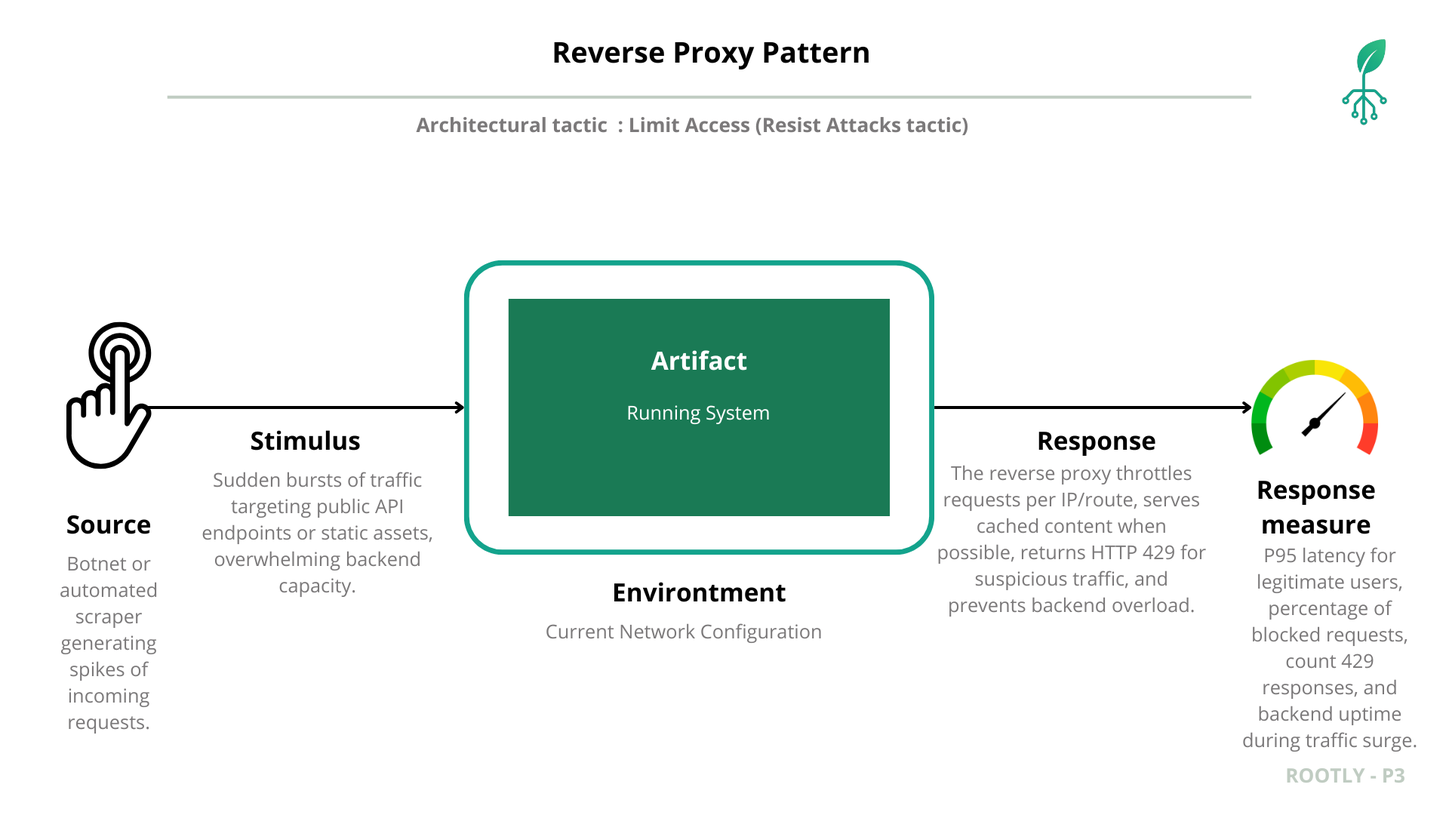
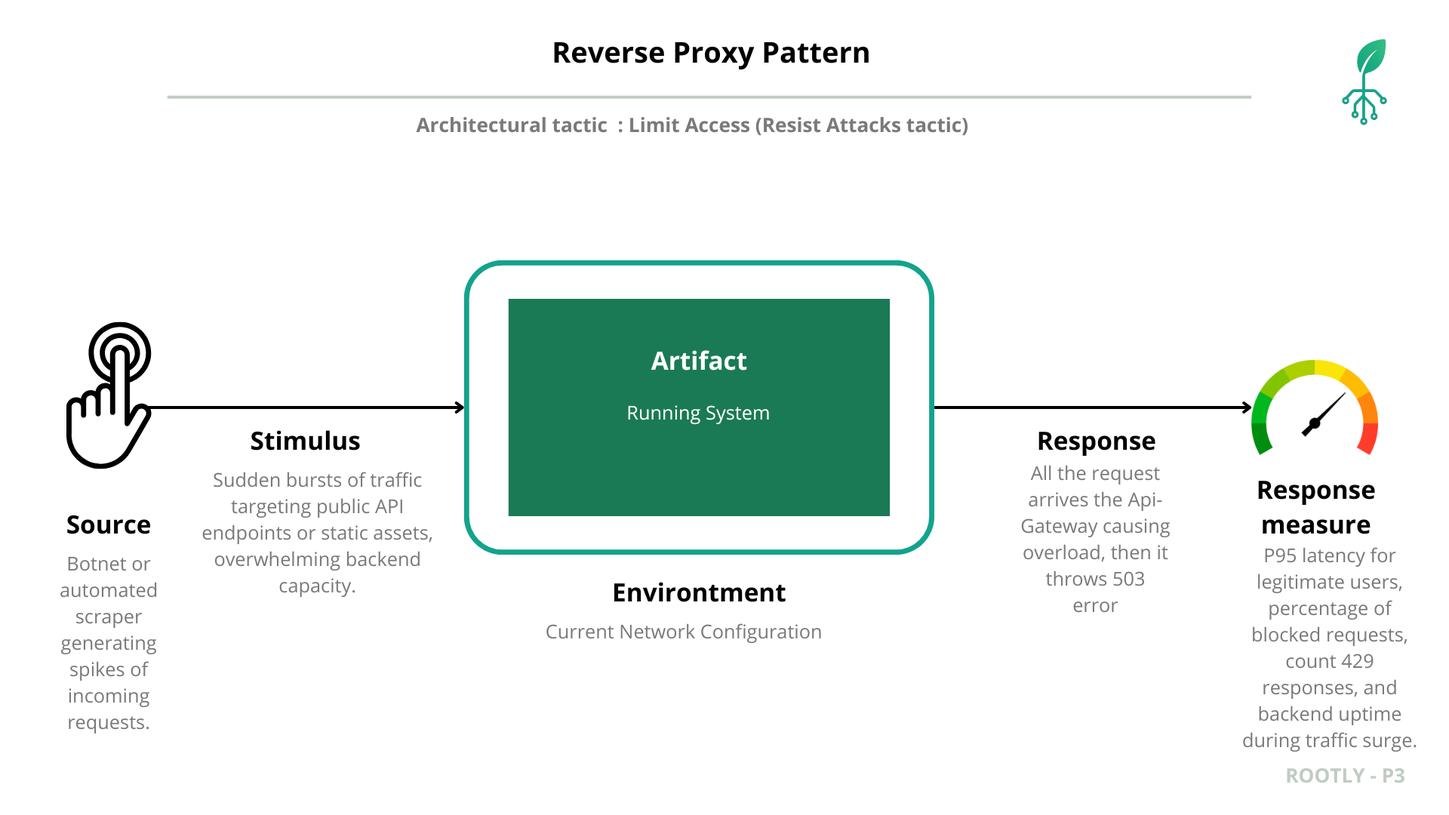
reverse proxy inside WAF update

Changed region(s): [[0.6562, 0.55, 0.8125, 0.7639]]

diff --git a/Prototype_3/README.md b/Prototype_3/README.md
@@ -78,13 +78,13 @@ Finally, users can access all this information through an intuitive interface, a
   - Protocols: **HTTP/REST**
   - Relations: Consumes `lb-data-ingestion` via HTTP/REST
 
-- **WAF**
+- **WAF (with embedded Reverse Proxy)**
   - Type: Security Firewall / Edge Service
-  - Responsibility: Protects web applications from common attacks and filters malicious traffic before it reaches the reverse proxy.
+  - Responsibility: Protects web applications from common attacks while running the reverse proxy functionality internally so that every frontend request is inspected, throttled, and routed within the same component.
   - Protocols: **HTTPS**
   - Relations:
     - Receives requests from `web-browser` and `fe-mobile`.
-    - Routes traffic to `api-gateway` and `fe-web` .
+    - Routes traffic to `api-gateway` and `fe-web`.
 
 - **lb-data-ingestion**
   - Type: Load Balancer
@@ -98,7 +98,7 @@ Finally, users can access all this information through an intuitive interface, a
   - Type: Mobile client application
   - Responsibility: Provides a mobile-optimized interface consuming backend APIs directly via REST.
   - Protocols: **HTTP/REST**
-  - Relations: Consumes `reverse-proxy` via HTTP/REST
+  - Relations: Consumes the WAF (reverse proxy) via HTTP/REST
 
 - **fe-web**
   - Type: Web client application
@@ -113,7 +113,7 @@ Finally, users can access all this information through an intuitive interface, a
   - Responsibility: Central entry point for all clients. Routes, aggregates, and authenticates API requests to backend microservices.
   - Protocols: **HTTP/GraphQL/REST**
   - Relations:
-    - Receives requests from `reverse-proxy`.
+    - Receives requests from the WAF reverse proxy.
     - Consumes services from backend modules (`lb-analytics`, `ms-user-plant-management`, `ms-authentication-and-roles`).
 
 - **lb-analytics**
@@ -362,7 +362,7 @@ Based on the deployment view, the system's elements are allocated as follows:
     *   **LAN (Shared Network):** A Local Area Network infrastructure that interconnects all three nodes, providing the foundational communication layer for the entire system. The LAN enables seamless connectivity between physical devices (Node 3), mobile clients (Node 2), and the server cluster (Node 1).
     
     *   **Node 1 (Server Cluster):** A physical or virtual server hosting the Docker environment with two network segments:
-        *   **Public Subnet (DMZ):** Contains WAF, reverse proxy, `fe-ssr-web`, and `api-gateway`, exposing controlled access to external clients.
+        *   **Public Subnet (DMZ):** Contains the WAF (which embeds the reverse proxy), `fe-ssr-web`, and `api-gateway`, exposing controlled access to external clients.
         *   **Private Subnet:** Contains all backend microservices, databases, message queue, and load balancers, isolated from direct external access. Services communicate via the internal Docker bridge network (`rootly-private-network`).
     
     *   **Node 2 (Mobile Client):** A physical device (smartphone/tablet running iOS/Android) executing the `fe-mobile` application (React Native), which communicates with Node 1 over the LAN via HTTPS.
@@ -806,13 +806,15 @@ Implementing the Secure Channel Pattern eliminates the exposure of sensitive dat
 ---
 ## Reverse Proxy
 
+Rootly implements the reverse proxy pattern inside the Web Application Firewall (WAF). The WAF is therefore the only public-facing component for frontend traffic, simultaneously enforcing inspection rules and the proxy features described below.
+
 ![Reverse proxy flood scenario](images/reverse_proxy_sceneryP3.png)
 
 ### 1. Artifact
 
 **Ingress Path for HTTP/REST Traffic:** Public-facing connector that carries requests from `fe-mobile`, `fe-web` (through the WAF), and automation clients toward the `api-gateway` and all downstream microservices.
 
-- **Reverse Proxy / Edge Layer:** Newly introduced `reverse-proxy` component.
+- **WAF Reverse Proxy / Edge Layer:** The WAF component hosts the reverse proxy logic that all external HTTP requests traverse.
 - **API Gateway (`api-gateway`):** Central orchestrator whose overload cascades to the rest of the platform.
 - **Backend Microservices:** Analytics, authentication, plant management, and processing services that depend on a healthy gateway.
 
@@ -842,20 +844,20 @@ Scenario executed under normal operations while comparing two configurations.
 - Every flood packet reaches the gateway and propagates to the microservices it fronts.
 
 #### Post–Reverse Proxy (Validation)
-- `reverse-proxy` is the only public HTTP/REST connector; all clients traverse `web-browser → WAF → reverse-proxy → api-gateway`.
+- The WAF reverse proxy is the only public HTTP/REST connector; all clients traverse `web-browser/fe-mobile → WAF (reverse proxy) → api-gateway`.
 - `api-gateway` and downstream services are isolated on a private network without host port mappings.
-- Proxy enforces per-IP/per-route throttling, optional caching, and centralized logging to monitor ingress.
+- The WAF enforces per-IP/per-route throttling, optional caching, and centralized logging to monitor ingress.
 
 ### 5. Response
 
-The system must preserve availability by shaping traffic at the edge:
+When the WAF reverse proxy is **not** yet implemented, the system responds to floods in a brittle way:
 
-1. **Edge Throttling:** Reverse proxy counts requests per IP and returns HTTP `429` when limits are exceeded.
-2. **Burst Absorption:** Small bursts are buffered so legitimate short spikes succeed.
-3. **Selective Forwarding:** Only traffic within the configured rate passes through the HTTP/REST connector to `api-gateway`.
-4. **Visibility:** Blocked IPs and routes are logged centrally for quick remediation.
+1. **Edge Throttling:** Does **not** exist; every request hits `api-gateway`, so there is no HTTP `429` shedding at the perimeter.
+2. **Burst Absorption:** Short spikes are still directed straight to the gateway, which has limited ability to buffer traffic and therefore starves worker pools.
+3. **Selective Forwarding:** All traffic—legitimate and abusive—travels through the exposed HTTP/REST connector, so the gateway forwards overload to backends.
+4. **Visibility:** Observability is fragmented across services, making it harder to identify the dominant attacker IPs or routes in real time.
 
-Without the proxy, `api-gateway` attempts to process the entire flood, leading to CPU saturation, increased latency, and cascading 5xx errors.
+This lack of an edge reverse proxy means `api-gateway` must process the entire flood, leading to CPU saturation, increased latency, and cascading 5xx errors. The remainder of this section explains how embedding the reverse proxy inside the WAF fixes those gaps.
 
 ### 6. Response Measure
 
@@ -882,13 +884,13 @@ Validation focuses on runtime metrics collected during the flood test:
 | **Attack** | Massive concurrent REST calls hammer `/api/*` endpoints to exhaust resources. |
 | **Risk** | Farmers and operators lose analytics/telemetry access due to timeouts and 5xx responses. |
 | **Vulnerability** | Unbounded ingress path allows every attack packet to reach internal services. |
-| **Countermeasure** | Reverse proxy between `fe-mobile`/WAF and `api-gateway`, enforcing throttling, caching hot responses, and centralizing inspection. |
+| **Countermeasure** | Implement the reverse proxy inside the WAF between clients and `api-gateway`, enforcing throttling, caching hot responses, and centralizing inspection. |
 
 ### Countermeasure: Reverse Proxy Pattern
 
 The **Reverse Proxy Pattern** establishes a guarded ingress path:
 
-- `reverse-proxy` is the only service exposed publicly; `api-gateway` resides on a private network and is reachable solely through the proxy.
+- The WAF reverse proxy is the only service exposed publicly; `api-gateway` resides on a private network and is reachable solely through the WAF.
 - The HTTP/REST connector between `fe-mobile` and the backend now includes rate limiting, burst controls, and optional caching to keep forwarded RPS within safe envelopes.
 - Observability improves because every external HTTP request is logged in one place, accelerating detection and response.
 
@@ -897,7 +899,7 @@ The **Reverse Proxy Pattern** establishes a guarded ingress path:
 | State | Response | Response Metrics |
 | --- | --- | --- |
 | **Before reverse proxy** | `api-gateway` processes every spike, saturates CPU, and propagates latency/timeouts to clients. | P95 latency >3 s, backend RPS ≈ attack RPS (~1000), 20–40% 5xx, no `429` shedding. |
-| **After reverse proxy** | Proxy sheds overflow (HTTP 429) and forwards only bounded traffic through the HTTP/REST connector, keeping services responsive. | P95 latency <300 ms, forwarded RPS capped (~200–300), <2% 5xx, high `429` count evidencing throttling. |
+| **After reverse proxy** | The WAF reverse proxy sheds overflow (HTTP 429) and forwards only bounded traffic through the HTTP/REST connector, keeping services responsive. | P95 latency <300 ms, forwarded RPS capped (~200–300), <2% 5xx, high `429` count evidencing throttling. |
 
 ### Comparative Security Assessment
 
@@ -910,13 +912,13 @@ The **Reverse Proxy Pattern** establishes a guarded ingress path:
 
 ### Summary
 
-Adopting the reverse proxy converted an unbounded ingress path into a controlled choke point that enforces the **Limit Access** tactic. Legitimate `fe-mobile` sessions maintain service quality even when hostile traffic is present, because overload is absorbed and rejected at the edge.
+Adopting the WAF-hosted reverse proxy converted an unbounded ingress path into a controlled choke point that enforces the **Limit Access** tactic. Legitimate `fe-mobile` sessions maintain service quality even when hostile traffic is present, because overload is absorbed and rejected at the edge.
 
 ## Verification – Comparative Analysis
 
 | Aspect | **Before Reverse Proxy** | **After Reverse Proxy** |
 | --- | --- | --- |
-| **Response** | API gateway and downstream services absorb the entire flood, leading to saturation, restarts, and user-visible downtime. | Reverse proxy throttles the attack, forwards only safe RPS to the gateway, and keeps legitimate sessions responsive. |
+| **Response** | API gateway and downstream services absorb the entire flood, leading to saturation, restarts, and user-visible downtime. | The WAF reverse proxy throttles the attack, forwards only safe RPS to the gateway, and keeps legitimate sessions responsive. |
 | **Response Measure** | High latency, backend RPS mirrors attack volume, zero 429 shedding, elevated 5xx. | Latency within SLA, bounded backend RPS, significant 429 shedding, minimal 5xx. |
 
 **💡 Note on Architectural Pattern:** See the [Reverse Proxy Pattern Documentation](https://github.com/swarch-2f-rootly/2f/blob/main/Prototype_3/reverse_proxy/README.md) for Nginx configuration, validation commands, and extended results.
@@ -927,23 +929,23 @@ Adopting the reverse proxy converted an unbounded ingress path into a controlled
 
 ### Scenario Snapshot
 In this scenario, the system faces a sustained **Layer-7 DoS attack** initiated by a single malicious client repeatedly sending legitimate-looking HTTP requests to its public API endpoints.  
-Initially, an NGINX reverse proxy acts as the only public entry point, forwarding all traffic to the API Gateway without deep inspection or rate limiting.  
+Initially, a plain NGINX reverse proxy acts as the only public entry point, forwarding all traffic to the API Gateway without deep inspection or rate limiting.  
 This design exposes the system to resource exhaustion, high latency, and loss of availability.  
-To mitigate this weakness, the **Web Application Firewall (WAF) pattern** is applied, introducing intelligent traffic inspection and rate control mechanisms that detect and block malicious requests while maintaining service performance for legitimate users.
+To mitigate this weakness, the **Web Application Firewall (WAF) pattern** is applied so that the reverse proxy functionality is implemented inside the WAF, introducing intelligent traffic inspection and rate control mechanisms that detect and block malicious requests while maintaining service performance for legitimate users.
 
 - **Weakness:** The system exposes a single public entry point through an NGINX reverse proxy that only forwards traffic to the API Gateway without deep inspection or centralized rate limiting.
 - **Threat:** A malicious external client or automated script capable of generating a sustained stream of HTTP(S) requests that simulated legitimate traffic.
 - **Attack:**  A **Layer-7 DoS** attack that repeatedly targets exposed endpoints (e.g., `/graphql`, `/auth/login`), using continuous or “low-and-slow” requests to exhaust gateway worker pools and degrade performance.
 - **Risk:** The API Gateway becomes overloaded, producing 502/503 responses and blocking legitimate users. System availability and user experience deteriorate severely.
 - **Vulnerability:** Absence of application-layer protection and global throttling. The reverse proxy lacks mechanisms to identify and block abusive request patterns.
-- **Countermeasure:** Introduce a **Web Application Firewall (WAF)** in front of the reverse proxy/API Gateway to inspect, filter, and throttle malicious traffic before it reaches backend services.
+- **Countermeasure:** Integrate a **Web Application Firewall (WAF)** with the reverse proxy/API Gateway edge so that every request is inspected, filtered, and throttled before it reaches backend services.
 
 ### Explanation of the Countermeasure
 
 The **Web Application Firewall (WAF) pattern** introduces a dedicated layer for **application-layer inspection and traffic control**.  
 It applies the *Detect Service Denial* and *Limit Resource Demand* architectural tactics to strengthen the system’s availability and resilience.
 
-By placing the WAF (`rootly-waf`) in front of the reverse proxy and API Gateway, the system gains the ability to:
+By upgrading the existing reverse proxy into the WAF (`rootly-waf`) that fronts the API Gateway, the system gains the ability to:
 
 - **Analyze and classify** HTTP requests using the OWASP Core Rule Set (CRS).  
 - **Detect anomalies and block malicious traffic** before it reaches backend services.  
@@ -951,7 +953,7 @@ By placing the WAF (`rootly-waf`) in front of the reverse proxy and API Gateway,
 - **Maintain service availability** with minimal latency degradation during high-volume attacks.  
 - **Centralize telemetry** (blocked IPs, triggered rules, anomaly scores) for auditing and adaptive security tuning.
 
-This countermeasure mitigates the initial weakness by adding an **intelligent filtering and control mechanism** at the network edge, transforming a passive reverse proxy into an active protection layer capable of handling complex, distributed attacks.
+This countermeasure mitigates the initial weakness by adding an **intelligent filtering and control mechanism** at the network edge, transforming the previously passive reverse proxy into an active protection layer capable of handling complex, distributed attacks.
 
 ### Summary
 

diff --git a/Prototype_3/reverse_proxy/README.md b/Prototype_3/reverse_proxy/README.md
@@ -103,17 +103,18 @@ Rootly is running under **normal operation** in a cloud or Docker-based environm
 - We consider two states:
 
 1. **Pre–Reverse-Proxy (Baseline)**: Clients hit `api-gateway` directly.
-2. **Post–Reverse-Proxy (Validation)**: All HTTP traffic flows through a reverse proxy in front of `api-gateway`.
+2. **Post–Reverse-Proxy (Validation)**: All HTTP traffic flows through the Web Application Firewall (WAF), which embeds the reverse proxy, in front of `api-gateway`.
 
 #### 5. Response
 
-The system must handle the flood as follows:
+When the WAF reverse proxy is **not yet** in place, Rootly’s response to the flood is fragile:
 
-- **Pre–Reverse-Proxy**: `api-gateway` and backend services try to process all requests. Under load, resource usage spikes, queues grow and latency increases dramatically.
-- **Post–Reverse-Proxy**: The reverse proxy applies rate-limits and basic request filtering at the edge:
-  - Excess requests are throttled or rejected with `429 Too Many Requests`.
-  - Cacheable responses may be served from edge cache without hitting the backends.
-  - Backends see only a controlled, bounded RPS.
+- **Edge Throttling:** There is no component rejecting overload at the perimeter, so `api-gateway` must process every packet and cannot emit `429` early.
+- **Burst Absorption:** Short spikes and sustained floods both hit the gateway directly, starving worker pools and causing head-of-line blocking.
+- **Selective Forwarding:** Because all ingress travels through an exposed HTTP/REST connector, legitimate and malicious traffic alike are forwarded downstream.
+- **Visibility:** Attack telemetry is scattered across services, so operators lack a single point to observe and contain abusive IPs or routes.
+
+This absence of a WAF reverse proxy is what allows resource exhaustion and cascading failures; the rest of the section focuses on how embedding the proxy inside the WAF corrects these behaviors.
 
 #### 6. Response Measure
 
@@ -121,14 +122,14 @@ We evaluate the scenario by measuring:
 
 - **P95 latency** for legitimate (baseline) traffic during the test window.
 - **Percentage of blocked / throttled requests** (HTTP 429 or similar).
-- **Total RPS observed at backends** compared to the incoming RPS at the proxy.
+- **Total RPS observed at backends** compared to the incoming RPS at the WAF edge.
 - **Backend uptime and error rate** (HTTP 5xx) during the flood.
 
 **Target (Post–Reverse-Proxy):**
 
 - P95 latency for legitimate traffic stays within agreed SLA.
 - Backend RPS stays below a configured safety threshold.
-- Majority of excess traffic is blocked or throttled at the proxy.
+- Majority of excess traffic is blocked or throttled at the WAF reverse proxy.
 - Backend 5xx error rate remains close to baseline.
 
 ---
@@ -152,7 +153,7 @@ This pattern primarily addresses **Availability**, but also benefits Integrity a
 | **Threat** | Actor or process that can cause harm. | Botnet, misconfigured integration, or aggressive scraper generating thousands of requests per second from one or many IPs. |
 | **Attack** | Concrete execution of the threat. | Running `hey`, `ab`, k6 or custom scripts against Rootly’s APIs with high concurrency and RPS, until the system becomes unstable. |
 | **Risk** | Probability and impact of an attack. | Legitimate farmers, agronomists and operators cannot access dashboards or API data during the flood, blocking operations and causing potential loss of crop monitoring and alerts. |
-| **Countermeasure** | Measure that mitigates the risk. | Deploy a **Reverse Proxy** in front of `api-gateway` with per-IP and per-route rate-limits, optional caching, and basic WAF-style rules. Only the proxy is exposed; `api-gateway` and backends move to a private segment. |
+| **Countermeasure** | Measure that mitigates the risk. | Deploy a **Web Application Firewall (WAF)** that embeds the reverse proxy logic in front of `api-gateway` with per-IP and per-route rate-limits, optional caching, and basic inspection rules. Only the WAF is exposed; `api-gateway` and backends move to a private segment. |
 
 ---
 
@@ -218,14 +219,14 @@ The problem: **every request**, including malicious ones, is fully processed by 
 
 ## Countermeasure Implementation
 
-We introduce a **Reverse Proxy Pattern** to control and shape traffic at the edge.
+We introduce a **Reverse Proxy Pattern** to control and shape traffic at the edge. The reverse proxy functionality lives inside the Web Application Firewall (WAF) component so that the WAF becomes the sole internet-facing entrypoint.
 
 ### Core Idea
 
-1. Insert a **reverse proxy container** (e.g. `reverse-proxy`) in front of `api-gateway`.
-2. Expose only the proxy’s port to the outside world (e.g. `80` or `8080`).
-3. Move `api-gateway` behind the proxy, reachable only on an internal network.
-4. Configure the proxy to:
+1. Insert a **Web Application Firewall (WAF)** service (e.g. `waf`) that embeds the reverse proxy logic in front of `api-gateway`.
+2. Expose only the WAF’s port to the outside world (e.g. `80` or `8080`).
+3. Move `api-gateway` behind the WAF, reachable only on an internal network.
+4. Configure the WAF / reverse proxy to:
 
    * Apply **rate-limiting** per IP and per route.
    * Return `429 Too Many Requests` when limits are exceeded.
@@ -240,11 +241,11 @@ We introduce a **Reverse Proxy Pattern** to control and shape traffic at the edg
 * `api-gateway` bound to host port `8080`.
 * No edge protection.
 
-#### After – Reverse Proxy as Single Ingress
+#### After – WAF (Reverse Proxy) as Single Ingress
 
-* External clients (web, mobile, devices) → `reverse-proxy` (public).
-* `reverse-proxy` → `api-gateway` (private network).
-* `api-gateway` and backends have **no host port mappings**; they are only reachable from the proxy.
+* External clients (web, mobile, devices) → `waf` (public) where the reverse proxy lives.
+* `waf` → `api-gateway` (private network).
+* `api-gateway` and backends have **no host port mappings**; they are only reachable from the WAF.
 
 ### Docker Compose Example (Simplified)
 
@@ -262,16 +263,16 @@ networks:
     internal: true
 ```
 
-#### Reverse Proxy Service
+#### Web Application Firewall (Reverse Proxy) Service
 
 ```yaml
 services:
-  reverse-proxy:
+  waf:
     image: nginx:stable
     ports:
       - "8080:80"               # Only public entry point
     volumes:
-      - ./reverse-proxy/nginx.conf:/etc/nginx/nginx.conf:ro
+      - ./reverse_proxy/nginx.conf:/etc/nginx/nginx.conf:ro
     networks:
       - rootly-public-network   # Visible externally
       - rootly-private-network  # Talks to api-gateway
@@ -308,7 +309,7 @@ http {
 
     # Basic health endpoint for monitoring the proxy itself
     location /proxy-health {
-      return 200 '{"status":"ok","component":"reverse-proxy"}';
+      return 200 '{"status":"ok","component":"waf-reverse-proxy"}';
       add_header Content-Type application/json;
     }
 
@@ -340,12 +341,12 @@ This configuration:
 
 ## Validation Results (Post–Reverse-Proxy)
 
-We now repeat the flood scenario, but this time all traffic is sent to `reverse-proxy` instead of directly to `api-gateway`.
+We now repeat the flood scenario, but this time all traffic is sent to the WAF (which contains the reverse proxy) instead of directly to `api-gateway`.
 
 ### Experiment Setup
 
 * Same host, same normal user workload.
-* Reverse proxy listening on `http://192.168.1.10:8080`.
+* WAF (reverse proxy) listening on `http://192.168.1.10:8080`.
 * `api-gateway` and all backends hidden on `rootly-private-network`.
 
 ### Phase 1 – Baseline with Proxy Enabled (No Flood)
@@ -356,11 +357,11 @@ hey -z 30s -q 5 -c 5 http://192.168.1.10:8080/api/v1/health
 
 Expected:
 
-* P95 latency stays close to previous baseline (proxy adds small overhead).
+* P95 latency stays close to previous baseline (the WAF adds small overhead).
 * Error rate ≈ 0%.
-* Reverse proxy and gateway both show low CPU usage.
+* WAF and gateway both show low CPU usage.
 
-### Phase 2 – Flood with Reverse Proxy Protection
+### Phase 2 – Flood with WAF Reverse Proxy Protection
 
 Attacker test:
 
@@ -368,12 +369,12 @@ Attacker test:
 hey -z 60s -q 200 -c 200 http://192.168.1.10:8080/api/v1/metrics
 ```
 
-**Observations at the Reverse Proxy:**
+**Observations at the WAF / Reverse Proxy:**
 
 * Total incoming RPS is high (similar to pre-proxy).
 * Access logs show a large number of `429` responses for each attacking IP.
 * Effective forwarded RPS to `api-gateway` is capped at configured limit (e.g. ~20 RPS per IP).
-* CPU on `reverse-proxy` is used, but `api-gateway` remains within safe bounds.
+* CPU on `waf` is used, but `api-gateway` remains within safe bounds.
 
 **Observations at the API Gateway and Backends:**
 
@@ -384,7 +385,7 @@ hey -z 60s -q 200 -c 200 http://192.168.1.10:8080/api/v1/metrics
 
 ### Metrics Comparison (Illustrative)
 
-| Metric                        | Pre–Reverse-Proxy   | Post–Reverse-Proxy         |
+| Metric                        | Pre–Reverse-Proxy   | Post–WAF Reverse-Proxy     |
 | ----------------------------- | ------------------- | -------------------------- |
 | Incoming RPS at edge          | 1000 RPS            | 1000 RPS                   |
 | RPS observed at `api-gateway` | ~1000 RPS           | ~200–300 RPS (bounded)     |
@@ -393,7 +394,7 @@ hey -z 60s -q 200 -c 200 http://192.168.1.10:8080/api/v1/metrics
 | Number of 429 responses       | 0                   | High (most excess traffic) |
 | Gateway / backend restarts    | Possible / likely   | None in test window        |
 
-The **reverse proxy absorbs the attack** by shedding load and returning `429` responses. Legitimate users can still use the system.
+The **WAF-integrated reverse proxy absorbs the attack** by shedding load and returning `429` responses. Legitimate users can still use the system.
 
 ---
 
@@ -405,12 +406,12 @@ This section links the implementation and measurements back to the original qual
 
 | Scenario Element     | Requirement                                             | Implemented Response                                                                                                                       |
 | -------------------- | ------------------------------------------------------- | ------------------------------------------------------------------------------------------------------------------------------------------ |
-| **Artifact**         | Protect ingress to APIs and static resources.           | All HTTP traffic flows through `reverse-proxy` before reaching `api-gateway` or backends.                                                  |
-| **Source**           | Botnet or automated scraper flooding endpoints.         | Attack emulated via `hey` or equivalent load generator; high RPS is directed at the proxy.                                                 |
+| **Artifact**         | Protect ingress to APIs and static resources.           | All HTTP traffic flows through the WAF (with the embedded reverse proxy) before reaching `api-gateway` or backends.                        |
+| **Source**           | Botnet or automated scraper flooding endpoints.         | Attack emulated via `hey` or equivalent load generator; high RPS is directed at the WAF entrypoint.                                        |
 | **Stimulus**         | Sudden spikes in HTTP traffic to public APIs.           | Flood workload of hundreds or thousands of RPS launched for a defined time window.                                                         |
-| **Environment**      | Normal system operation, with/without proxy.            | Two configurations evaluated: direct exposure vs. proxy-protected ingress.                                                                 |
-| **Response**         | System must protect availability of legitimate traffic. | Reverse proxy throttles excess traffic, returns `429`, and forwards only a controlled RPS to backends.                                     |
-| **Response Measure** | Maintain P95 latency and uptime; block excess requests. | With proxy: backends stay within capacity; P95 latency for legit traffic remains in SLA and a large fraction of attack traffic is blocked. |
+| **Environment**      | Normal system operation, with/without proxy.            | Two configurations evaluated: direct exposure vs. WAF-protected ingress.                                                                   |
+| **Response**         | System must protect availability of legitimate traffic. | WAF reverse proxy throttles excess traffic, returns `429`, and forwards only a controlled RPS to backends.                                 |
+| **Response Measure** | Maintain P95 latency and uptime; block excess requests. | With WAF: backends stay within capacity; P95 latency for legit traffic remains in SLA and a large fraction of attack traffic is blocked.   |
 
 ### Quantitative Assessment
 
@@ -443,11 +444,10 @@ The Reverse Proxy Pattern successfully:
 3. **Preserves availability** of critical backend services during floods.
 4. **Improves observability**, as all external HTTP traffic is visible in a single place.
 
-The implementation has shown that, for the defined scenario of automated floods / light DDoS, the reverse proxy acts as an effective architectural countermeasure and significantly strengthens the resilience of the Rootly platform.
+The implementation has shown that, for the defined scenario of automated floods / light DDoS, the WAF-integrated reverse proxy acts as an effective architectural countermeasure and significantly strengthens the resilience of the Rootly platform.
 
 ---
 
 ```
 ::contentReference[oaicite:1]{index=1}
 ```
-
